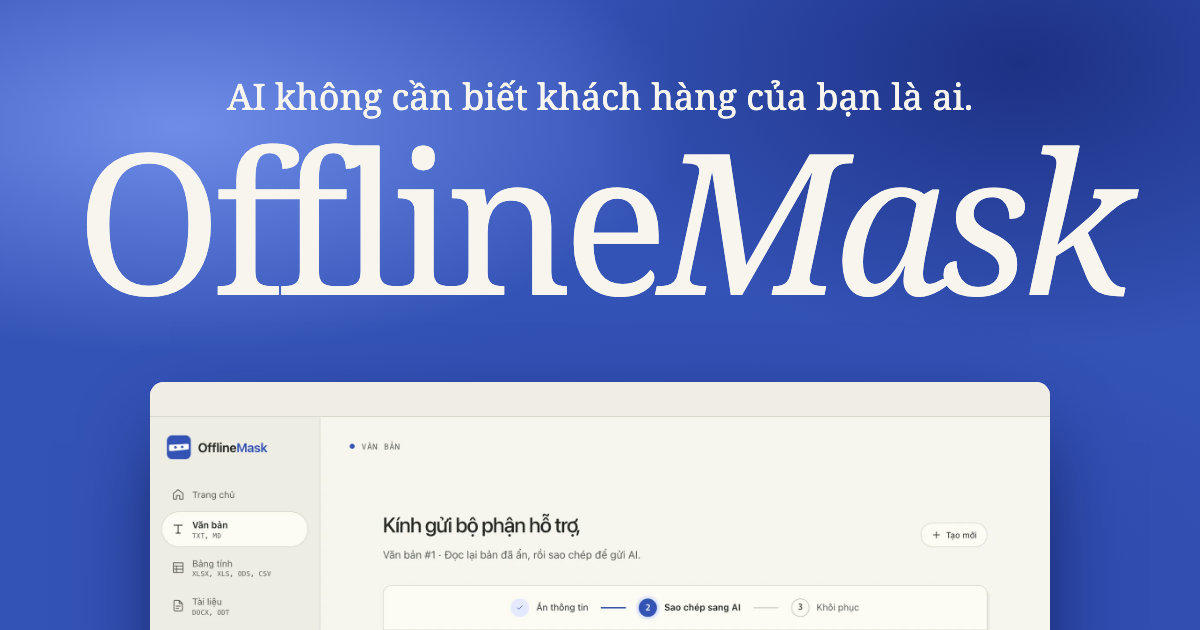
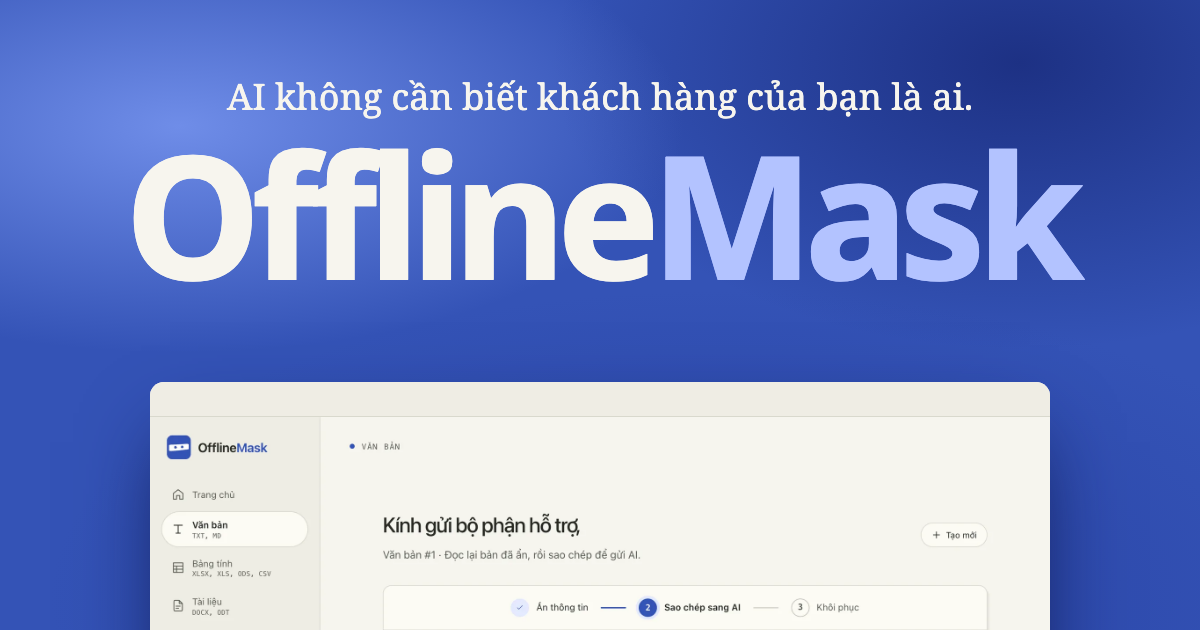
feat(landing): one wordmark and a three-link nav
Draw the hero, footer and share-image wordmarks in the logo's lettering (bold
sans, "Mask" in light cobalt) so the page shows one brand mark, keeping the
serif for headlines. The nav links to Cách hoạt động, Tính năng and Quyền
riêng tư, beside the download button; Hỏi đáp stays in the footer.

Changed region(s): [[0.0617, 0.2111, 0.9558, 0.4825]]

diff --git a/landing/product.html b/landing/product.html
@@ -6,8 +6,8 @@
         ><span class="om-mark" aria-hidden="true"></span
         ><span class="om-brand-name" aria-hidden="true">Offline<span>Mask</span></span></a
       >
-      <a href="#om-why">Giới thiệu</a><a href="#om-how">Cách dùng</a
-      ><a href="#om-privacy">Riêng tư</a><a href="#om-faq">Hỏi đáp</a>
+      <a href="#om-how">Cách hoạt động</a><a href="#om-features">Tính năng</a
+      ><a href="#om-privacy">Quyền riêng tư</a>
     </nav>
     <a class="om-nav-download" href="#om-download" data-om-nav-download>Tải về</a>
   </header>
@@ -18,7 +18,9 @@
         <h1 id="om-title" class="om-tagline" data-om-enter>
           AI không cần biết khách hàng của bạn là ai.
         </h1>
-        <p class="om-wordmark" aria-hidden="true" data-om-wordmark>Offline<em>Mask</em></p>
+        <p class="om-wordmark" aria-hidden="true" data-om-wordmark>
+          Offline<span class="om-wordmark-mask">Mask</span>
+        </p>
         <p class="om-hero-sub" data-om-enter>
           OfflineMask thay tên, số tài khoản, CCCD… bằng mã ngay trên máy, trước khi bạn hỏi AI
           (ChatGPT, Claude, Gemini…). Dán câu trả lời vào lại, thông tin thật trở về đúng chỗ.
@@ -198,7 +200,7 @@
       </div>
     </section>
 
-    <section class="om-features om-wrap" aria-labelledby="om-features-title">
+    <section class="om-features om-wrap" id="om-features" aria-labelledby="om-features-title">
       <h2 id="om-features-title" class="om-display" data-om-reveal>
         Làm việc với<br /><em>những gì bạn đã có.</em>
       </h2>
@@ -533,8 +535,8 @@
       </div>
       <nav aria-label="Sản phẩm">
         <p>Sản phẩm</p>
-        <a href="#om-why">Giới thiệu</a><a href="#om-how">Cách dùng</a
-        ><a href="#om-privacy">Riêng tư</a><a href="#om-faq">Hỏi đáp</a>
+        <a href="#om-how">Cách hoạt động</a><a href="#om-features">Tính năng</a
+        ><a href="#om-privacy">Quyền riêng tư</a><a href="#om-faq">Hỏi đáp</a>
       </nav>
       <nav aria-label="Tài nguyên">
         <p>Tài nguyên</p>
@@ -552,6 +554,6 @@
         <a href="https://wotdafong.dev">Phong Phan ↗</a><a href="#om-main">Lên đầu trang ↑</a>
       </nav>
     </div>
-    <p class="om-footer-mark" aria-hidden="true">Offline<em>Mask</em></p>
+    <p class="om-footer-mark" aria-hidden="true">Offline<span>Mask</span></p>
   </footer>
 </div>

diff --git a/landing/product.css b/landing/product.css
@@ -269,15 +269,15 @@
   font: 400 clamp(22px, 2.4vw, 34px) / 1.3 var(--serif);
   letter-spacing: -0.01em;
 }
+/* The wordmark is drawn like the logo: bold sans, tight, "Mask" in a lighter cobalt. */
 .om-wordmark {
-  margin-top: 6px !important;
-  font: 400 clamp(76px, 15.5vw, 236px) / 0.95 var(--serif);
-  letter-spacing: -0.045em;
+  margin-top: 14px !important;
+  font: 750 clamp(64px, 13vw, 200px) / 1 var(--sans);
+  letter-spacing: -0.055em;
   white-space: nowrap;
 }
-.om-wordmark em {
-  font-style: italic;
-  letter-spacing: -0.035em;
+.om-wordmark-mask {
+  color: #b3c3ff;
 }
 .om-wordmark span {
   display: inline-block;
@@ -1162,13 +1162,13 @@
 .om-footer-mark {
   margin: 56px 0 -0.22em !important;
   color: var(--accent-soft);
-  font: 400 16vw/0.8 var(--serif);
-  letter-spacing: -0.05em;
+  font: 750 14.5vw/0.8 var(--sans);
+  letter-spacing: -0.055em;
   text-align: center;
   white-space: nowrap;
 }
-.om-footer-mark em {
-  font-style: italic;
+.om-footer-mark span {
+  color: color-mix(in srgb, var(--accent) 30%, var(--accent-soft));
 }
 
 @media (max-width: 1100px) {
@@ -1186,7 +1186,8 @@
   }
 }
 @media (max-width: 860px) {
-  .om-nav-pill a[href="#om-privacy"] {
+  .om-nav-pill a[href="#om-privacy"],
+  .om-nav-pill a[href="#om-features"] {
     display: none;
   }
   .om-story-grid {
@@ -1258,7 +1259,7 @@
     border-radius: 0 0 50% 50% / 0 0 36px 36px;
   }
   .om-wordmark {
-    font-size: 15.2vw;
+    font-size: 14vw;
   }
   .om-hero-window {
     margin-top: 36px;

diff --git a/landing/og/card.html b/landing/og/card.html
@@ -24,6 +24,11 @@
         font-weight: 100 900;
         src: url(../node_modules/@fontsource-variable/noto-serif/files/noto-serif-latin-wght-italic.woff2);
       }
+      @font-face {
+        font-family: "Noto Sans";
+        font-weight: 100 900;
+        src: url(../node_modules/@fontsource-variable/noto-sans/files/noto-sans-latin-wght-normal.woff2);
+      }
       html,
       body {
         margin: 0;
@@ -46,13 +51,14 @@
         font-size: 36px;
       }
       .mark {
-        margin: 0;
-        font-size: 196px;
-        line-height: 1;
-        letter-spacing: -0.045em;
+        margin: 6px 0 0;
+        font:
+          750 172px/1 "Noto Sans",
+          sans-serif;
+        letter-spacing: -0.055em;
       }
-      .mark em {
-        font-style: italic;
+      .mark span {
+        color: #b3c3ff;
       }
       .window {
         position: absolute;
@@ -78,7 +84,7 @@
   </head>
   <body>
     <p class="tagline">AI không cần biết khách hàng của bạn là ai.</p>
-    <p class="mark">Offline<em>Mask</em></p>
+    <p class="mark">Offline<span>Mask</span></p>
     <div class="window">
       <div class="bar"></div>
       <img src="../shots/text-masked.webp" alt="" />
